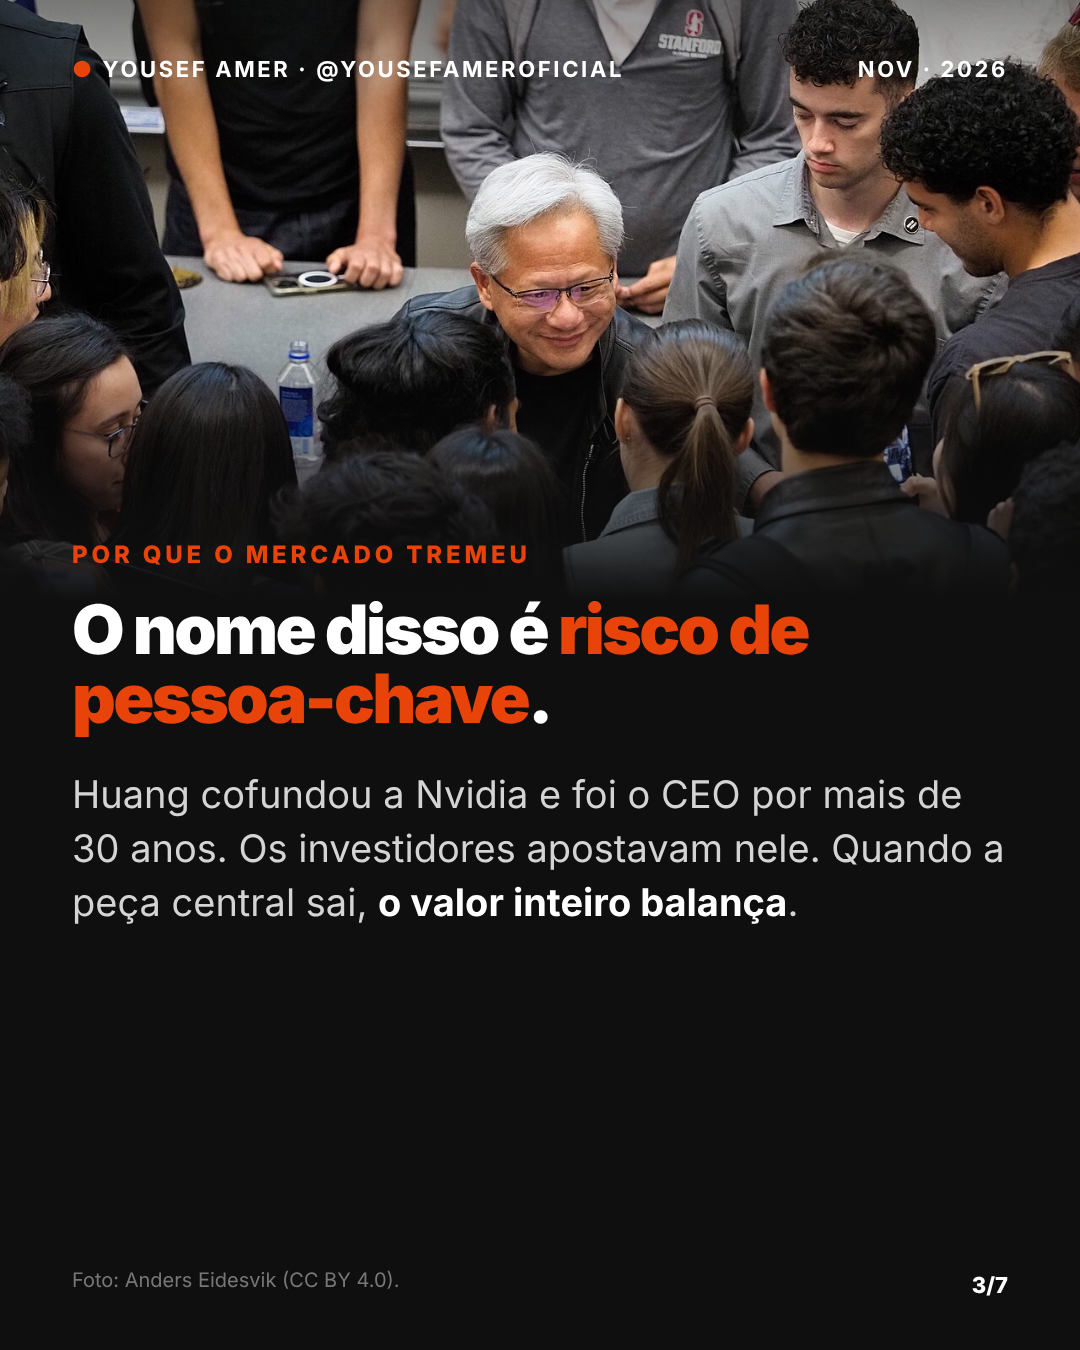
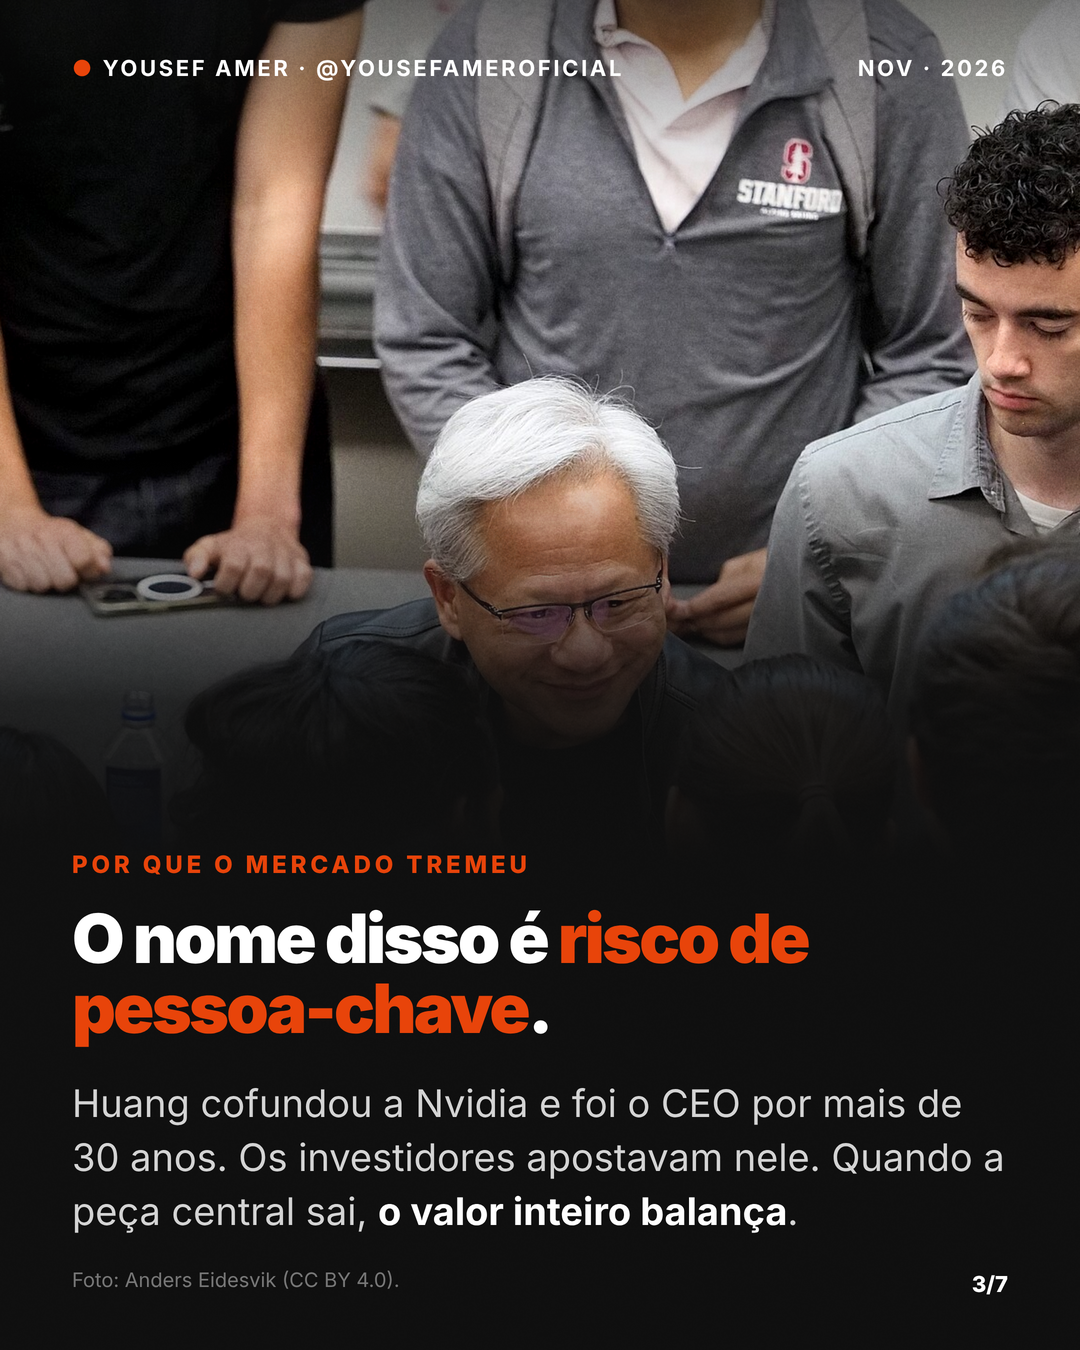
feat(marketing): carrossel da Nvidia no novo padrão (fotos em tela cheia e em alta)
Claude-Session: https://claude.ai/code/session_01PgX7nvM3iYSo6xDzmGNfnx

diff --git a/marketing/yousef/carrosseis/2026-11-nvidia-pessoa-chave/slides/01.html b/marketing/yousef/carrosseis/2026-11-nvidia-pessoa-chave/slides/01.html
@@ -2,8 +2,9 @@
 .dark .top{color:#fff}.dark .src{color:#777}.dark p{color:#D4D4D4}.dark p b{color:#fff}
 ul.l{list-style:none;margin-top:34px}ul.l li{font-size:36px;line-height:1.35;font-weight:600;padding:16px 0 16px 54px;position:relative;border-bottom:1px solid rgba(0,0,0,.08)}
 ul.l li:before{content:'→';position:absolute;left:0;color:#E8440A;font-weight:900}.dark ul.l li{border-color:rgba(255,255,255,.12);color:#fff}
+.grain{position:absolute;inset:0;background:url(grain.png);opacity:.07;mix-blend-mode:overlay;pointer-events:none}
 .big2{font-size:150px;font-weight:900;letter-spacing:-.05em;line-height:.95;color:#E8440A}
-</style></head><body class="dark"><div class="top" style="z-index:3"><span><b>●</b> YOUSEF AMER · @YOUSEFAMEROFICIAL</span><span>NOV · 2026</span></div><div class="bg" style="position:absolute;left:0;right:0;top:0;height:980px;background:url(huang-stanford-033.jpg) center 12%/cover;filter:brightness(1)"></div><div style="position:absolute;inset:0;background:linear-gradient(180deg,rgba(15,15,15,.5) 0%,rgba(15,15,15,0) 18%,rgba(15,15,15,0) 38%,rgba(15,15,15,.92) 56%,#0F0F0F 66%)"></div><div style="position:absolute;left:72px;top:640px;font-size:22px;font-weight:700;color:#fff;background:rgba(0,0,0,.55);padding:8px 14px;border-radius:10px;z-index:2">Jensen Huang · ex-CEO da Nvidia</div><div style="position:absolute;left:72px;right:72px;bottom:130px"><div class="kick" style="color:#FF6B3D">NVIDIA</div>
+</style></head><body class="dark"><div class="top" style="z-index:3"><span><b>●</b> YOUSEF AMER · @YOUSEFAMEROFICIAL</span><span>NOV · 2026</span></div><div class="bg" style="position:absolute;left:0;right:0;top:0;height:1350px;background:url(hq-huang-033.jpg) center 15%/cover;filter:contrast(1.06) saturate(.92) brightness(1)"></div><div class="grain"></div><div style="position:absolute;inset:0;background:linear-gradient(180deg,rgba(15,15,15,.5) 0%,rgba(15,15,15,0) 18%,rgba(15,15,15,0) 38%,rgba(15,15,15,.92) 56%,#0F0F0F 66%)"></div><div style="position:absolute;left:72px;top:560px;font-size:22px;font-weight:700;color:#fff;background:rgba(0,0,0,.55);padding:8px 14px;border-radius:10px;z-index:2">Jensen Huang · ex-CEO da Nvidia</div><div style="position:absolute;left:72px;right:72px;bottom:130px"><div class="kick" style="color:#FF6B3D">NVIDIA</div>
 <h1 style="color:#fff;font-size:76px">A saída de <span class="or">uma pessoa</span> apagou mais de US$ 1 trilhão em valor de mercado.</h1></div>
 <div style="position:absolute;bottom:60px;left:72px;font-size:26px;font-weight:800;letter-spacing:.12em;color:#E8440A">ARRASTE →</div>
 <div style="position:absolute;left:72px;bottom:24px;font-size:15px;color:#777">Foto: Anders Eidesvik (CC BY 4.0)</div></body></html>

diff --git a/marketing/yousef/carrosseis/2026-11-nvidia-pessoa-chave/slides/06.html b/marketing/yousef/carrosseis/2026-11-nvidia-pessoa-chave/slides/06.html
@@ -2,5 +2,6 @@
 .dark .top{color:#fff}.dark .src{color:#777}.dark p{color:#D4D4D4}.dark p b{color:#fff}
 ul.l{list-style:none;margin-top:34px}ul.l li{font-size:36px;line-height:1.35;font-weight:600;padding:16px 0 16px 54px;position:relative;border-bottom:1px solid rgba(0,0,0,.08)}
 ul.l li:before{content:'→';position:absolute;left:0;color:#E8440A;font-weight:900}.dark ul.l li{border-color:rgba(255,255,255,.12);color:#fff}
+.grain{position:absolute;inset:0;background:url(grain.png);opacity:.07;mix-blend-mode:overlay;pointer-events:none}
 .big2{font-size:150px;font-weight:900;letter-spacing:-.05em;line-height:.95;color:#E8440A}
-</style></head><body><div class="top" style="z-index:3"><span><b>●</b> YOUSEF AMER · @YOUSEFAMEROFICIAL</span><span>NOV · 2026</span></div><div class="wrap" style="top:150px"><div class="kick">O QUE EU FARIA</div><h2>Diversifique <span class="or">antes</span> de precisar.</h2><ul class="l"><li><b>Reserva de emergência:</b> de 3 a 6 meses do seu custo de vida</li><li><b>Cartão é ferramenta</b>, não plano B</li><li><b>Segunda fonte de renda</b>, mesmo que pequena</li><li><b>Dívidas renegociadas</b> enquanto a renda ainda entra</li></ul><div class="card" style="font-size:36px;font-weight:700;line-height:1.35">A Nvidia vai sobreviver. Uma família sem reserva, muitas vezes, não.</div></div><div class="pg">6/7</div></body></html>
+</style></head><body class="dark"><div class="top" style="z-index:3"><span><b>●</b> YOUSEF AMER · @YOUSEFAMEROFICIAL</span><span>NOV · 2026</span></div><div style="position:absolute;inset:0;background:url(hq-cofrinho.jpg) center 0%/cover;filter:contrast(1.06) saturate(.92) brightness(0.95)"></div><div style="position:absolute;inset:0;background:linear-gradient(180deg,rgba(15,15,15,.55) 0%,rgba(15,15,15,0) 14%,rgba(15,15,15,0) 12%,rgba(15,15,15,.88) 30%,#0F0F0F 42%)"></div><div class="grain"></div><div class="wrap" style="top:auto;bottom:110px"><div class="kick">O QUE EU FARIA</div><h2 style="color:#fff">Diversifique <span class="or">antes</span> de precisar.</h2><ul class="l"><li><b>Reserva de emergência:</b> de 3 a 6 meses do seu custo de vida</li><li><b>Cartão é ferramenta</b>, não plano B</li><li><b>Segunda fonte de renda</b>, mesmo que pequena</li><li><b>Dívidas renegociadas</b> enquanto a renda ainda entra</li></ul><div class="card" style="font-size:36px;font-weight:700;line-height:1.35;background:#1c1c1c;color:#fff">A Nvidia vai sobreviver. Uma família sem reserva, muitas vezes, não.</div></div><div class="src">Foto: Ken Teegardin (CC BY-SA 2.0).</div><div class="pg">6/7</div></body></html>

diff --git a/marketing/yousef/carrosseis/2026-11-nvidia-pessoa-chave/slides/03.html b/marketing/yousef/carrosseis/2026-11-nvidia-pessoa-chave/slides/03.html
@@ -2,5 +2,6 @@
 .dark .top{color:#fff}.dark .src{color:#777}.dark p{color:#D4D4D4}.dark p b{color:#fff}
 ul.l{list-style:none;margin-top:34px}ul.l li{font-size:36px;line-height:1.35;font-weight:600;padding:16px 0 16px 54px;position:relative;border-bottom:1px solid rgba(0,0,0,.08)}
 ul.l li:before{content:'→';position:absolute;left:0;color:#E8440A;font-weight:900}.dark ul.l li{border-color:rgba(255,255,255,.12);color:#fff}
+.grain{position:absolute;inset:0;background:url(grain.png);opacity:.07;mix-blend-mode:overlay;pointer-events:none}
 .big2{font-size:150px;font-weight:900;letter-spacing:-.05em;line-height:.95;color:#E8440A}
-</style></head><body class="dark"><div class="top" style="z-index:3"><span><b>●</b> YOUSEF AMER · @YOUSEFAMEROFICIAL</span><span>NOV · 2026</span></div><div style="position:absolute;left:0;right:0;top:0;height:600px;background:url(huang-stanford-025.jpg) center 35%/cover"></div><div style="position:absolute;left:0;right:0;top:0;height:600px;background:linear-gradient(180deg,rgba(15,15,15,.45),rgba(15,15,15,0) 25%,rgba(15,15,15,0) 55%,#0F0F0F)"></div><div class="wrap" style="top:540px"><div class="kick">POR QUE O MERCADO TREMEU</div><h2 style="color:#fff">O nome disso é <span class="or">risco de pessoa-chave</span>.</h2><p>Huang cofundou a Nvidia e foi o CEO por mais de 30 anos. Os investidores apostavam nele. Quando a peça central sai, <b>o valor inteiro balança</b>.</p></div><div class="src">Foto: Anders Eidesvik (CC BY 4.0).</div><div class="pg">3/7</div></body></html>
+</style></head><body class="dark"><div class="top" style="z-index:3"><span><b>●</b> YOUSEF AMER · @YOUSEFAMEROFICIAL</span><span>NOV · 2026</span></div><div style="position:absolute;inset:0;background:url(hq-huang-025.jpg) center 30%/cover;filter:contrast(1.06) saturate(.92) brightness(1)"></div><div style="position:absolute;inset:0;background:linear-gradient(180deg,rgba(15,15,15,.55) 0%,rgba(15,15,15,0) 14%,rgba(15,15,15,0) 34%,rgba(15,15,15,.88) 52%,#0F0F0F 64%)"></div><div class="grain"></div><div class="wrap" style="top:auto;bottom:110px"><div class="kick">POR QUE O MERCADO TREMEU</div><h2 style="color:#fff">O nome disso é <span class="or">risco de pessoa-chave</span>.</h2><p>Huang cofundou a Nvidia e foi o CEO por mais de 30 anos. Os investidores apostavam nele. Quando a peça central sai, <b>o valor inteiro balança</b>.</p></div><div class="src">Foto: Anders Eidesvik (CC BY 4.0).</div><div class="pg">3/7</div></body></html>

diff --git a/marketing/yousef/carrosseis/2026-11-nvidia-pessoa-chave/slides/02.html b/marketing/yousef/carrosseis/2026-11-nvidia-pessoa-chave/slides/02.html
@@ -2,5 +2,6 @@
 .dark .top{color:#fff}.dark .src{color:#777}.dark p{color:#D4D4D4}.dark p b{color:#fff}
 ul.l{list-style:none;margin-top:34px}ul.l li{font-size:36px;line-height:1.35;font-weight:600;padding:16px 0 16px 54px;position:relative;border-bottom:1px solid rgba(0,0,0,.08)}
 ul.l li:before{content:'→';position:absolute;left:0;color:#E8440A;font-weight:900}.dark ul.l li{border-color:rgba(255,255,255,.12);color:#fff}
+.grain{position:absolute;inset:0;background:url(grain.png);opacity:.07;mix-blend-mode:overlay;pointer-events:none}
 .big2{font-size:150px;font-weight:900;letter-spacing:-.05em;line-height:.95;color:#E8440A}
-</style></head><body><div class="top" style="z-index:3"><span><b>●</b> YOUSEF AMER · @YOUSEFAMEROFICIAL</span><span>NOV · 2026</span></div><div class="wrap" style="top:150px"><div class="kick">O QUE ACONTECEU</div><h2>Em 12/11, Jensen Huang deixou o comando da Nvidia com efeito imediato.</h2><p>A diretora financeira, Colette Kress, assumiu de forma interina. As ações caíram, puxaram o setor de chips, e o Nasdaq entrou em <b>correção</b>.</p><p>Um analista da Wedbush estimou que a empresa pode valer <b>até 30% menos</b> sem ele no comando.</p></div><div class="src">Fontes: InfoMoney, Exame, CNBC, Yahoo Finance (nov/2026).</div><div class="pg">2/7</div></body></html>
+</style></head><body class="dark"><div class="top" style="z-index:3"><span><b>●</b> YOUSEF AMER · @YOUSEFAMEROFICIAL</span><span>NOV · 2026</span></div><div style="position:absolute;inset:0;background:url(hq-nasdaq-tower.jpg) center 8%/cover;filter:contrast(1.06) saturate(.92) brightness(1)"></div><div style="position:absolute;inset:0;background:linear-gradient(180deg,rgba(15,15,15,.55) 0%,rgba(15,15,15,0) 14%,rgba(15,15,15,0) 26%,rgba(15,15,15,.88) 44%,#0F0F0F 56%)"></div><div class="grain"></div><div class="wrap" style="top:auto;bottom:110px"><div class="kick">O QUE ACONTECEU</div><h2 style="color:#fff">Em 12/11, Jensen Huang deixou o comando da Nvidia com efeito imediato.</h2><p>A diretora financeira, Colette Kress, assumiu de forma interina. As ações caíram, puxaram o setor de chips, e o Nasdaq entrou em <b>correção</b>.</p><p>Um analista da Wedbush estimou que a empresa pode valer <b>até 30% menos</b> sem ele no comando.</p></div><div class="src">Fontes: InfoMoney, Exame, CNBC, Yahoo Finance (nov/2026). Foto: Nielsoncaetanosalmeron (CC BY 4.0).</div><div class="pg">2/7</div></body></html>

diff --git a/marketing/yousef/carrosseis/2026-11-nvidia-pessoa-chave/slides/04.html b/marketing/yousef/carrosseis/2026-11-nvidia-pessoa-chave/slides/04.html
@@ -2,5 +2,6 @@
 .dark .top{color:#fff}.dark .src{color:#777}.dark p{color:#D4D4D4}.dark p b{color:#fff}
 ul.l{list-style:none;margin-top:34px}ul.l li{font-size:36px;line-height:1.35;font-weight:600;padding:16px 0 16px 54px;position:relative;border-bottom:1px solid rgba(0,0,0,.08)}
 ul.l li:before{content:'→';position:absolute;left:0;color:#E8440A;font-weight:900}.dark ul.l li{border-color:rgba(255,255,255,.12);color:#fff}
+.grain{position:absolute;inset:0;background:url(grain.png);opacity:.07;mix-blend-mode:overlay;pointer-events:none}
 .big2{font-size:150px;font-weight:900;letter-spacing:-.05em;line-height:.95;color:#E8440A}
-</style></head><body><div class="top" style="z-index:3"><span><b>●</b> YOUSEF AMER · @YOUSEFAMEROFICIAL</span><span>NOV · 2026</span></div><div class="wrap" style="top:150px"><div class="kick">AGORA, A SUA CASA</div><h2>Na maioria das famílias, <span class="or">o seu salário</span> é o Jensen Huang.</h2><p>Uma fonte de renda sustenta tudo. E o plano B, quase sempre, é o <b>limite do cartão</b>.</p><p>Se essa fonte para (demissão, doença, atraso de pagamento), a dívida começa no mês seguinte.</p></div><div class="pg">4/7</div></body></html>
+</style></head><body class="dark"><div class="top" style="z-index:3"><span><b>●</b> YOUSEF AMER · @YOUSEFAMEROFICIAL</span><span>NOV · 2026</span></div><div style="position:absolute;inset:0;background:url(hq-pagando-cartao.jpg) 70% center/cover;filter:contrast(1.06) saturate(.92) brightness(1)"></div><div style="position:absolute;inset:0;background:linear-gradient(180deg,rgba(15,15,15,.55) 0%,rgba(15,15,15,0) 14%,rgba(15,15,15,0) 30%,rgba(15,15,15,.88) 48%,#0F0F0F 60%)"></div><div class="grain"></div><div class="wrap" style="top:auto;bottom:110px"><div class="kick">AGORA, A SUA CASA</div><h2 style="color:#fff">Na maioria das famílias, <span class="or">o seu salário</span> é o Jensen Huang.</h2><p>Uma fonte de renda sustenta tudo. E o plano B, quase sempre, é o <b>limite do cartão</b>.</p><p>Se essa fonte para (demissão, doença, atraso de pagamento), a dívida começa no mês seguinte.</p></div><div class="src">Foto: Hloom Templates (CC BY 2.0).</div><div class="pg">4/7</div></body></html>

diff --git a/marketing/yousef/carrosseis/2026-11-nvidia-pessoa-chave/slides/05.html b/marketing/yousef/carrosseis/2026-11-nvidia-pessoa-chave/slides/05.html
@@ -2,5 +2,6 @@
 .dark .top{color:#fff}.dark .src{color:#777}.dark p{color:#D4D4D4}.dark p b{color:#fff}
 ul.l{list-style:none;margin-top:34px}ul.l li{font-size:36px;line-height:1.35;font-weight:600;padding:16px 0 16px 54px;position:relative;border-bottom:1px solid rgba(0,0,0,.08)}
 ul.l li:before{content:'→';position:absolute;left:0;color:#E8440A;font-weight:900}.dark ul.l li{border-color:rgba(255,255,255,.12);color:#fff}
+.grain{position:absolute;inset:0;background:url(grain.png);opacity:.07;mix-blend-mode:overlay;pointer-events:none}
 .big2{font-size:150px;font-weight:900;letter-spacing:-.05em;line-height:.95;color:#E8440A}
-</style></head><body><div class="top" style="z-index:3"><span><b>●</b> YOUSEF AMER · @YOUSEFAMEROFICIAL</span><span>NOV · 2026</span></div><div class="wrap" style="top:150px"><div class="kick">SINAIS DE ALERTA</div><h2>Sua vida financeira tem risco de pessoa-chave se:</h2><ul class="l"><li>100% da renda vem de uma fonte só</li><li>você não aguenta 3 meses sem salário</li><li>o limite do cartão é a sua reserva</li><li>um imprevisto de R$ 2 mil já vira parcela</li></ul></div><div class="pg">5/7</div></body></html>
+</style></head><body class="dark"><div class="top" style="z-index:3"><span><b>●</b> YOUSEF AMER · @YOUSEFAMEROFICIAL</span><span>NOV · 2026</span></div><div style="position:absolute;inset:0;background:url(hq-cartoes.jpg) center 0%/cover;filter:contrast(1.06) saturate(.92) brightness(1)"></div><div style="position:absolute;inset:0;background:linear-gradient(180deg,rgba(15,15,15,.55) 0%,rgba(15,15,15,0) 14%,rgba(15,15,15,0) 22%,rgba(15,15,15,.88) 40%,#0F0F0F 52%)"></div><div class="grain"></div><div class="wrap" style="top:auto;bottom:110px"><div class="kick">SINAIS DE ALERTA</div><h2 style="color:#fff">Sua vida financeira tem risco de pessoa-chave se:</h2><ul class="l"><li>100% da renda vem de uma fonte só</li><li>você não aguenta 3 meses sem salário</li><li>o limite do cartão é a sua reserva</li><li>um imprevisto de R$ 2 mil já vira parcela</li></ul></div><div class="src">Foto: $5000 (CC BY-SA 4.0).</div><div class="pg">5/7</div></body></html>

diff --git a/marketing/yousef/carrosseis/2026-11-nvidia-pessoa-chave/slides/07.html b/marketing/yousef/carrosseis/2026-11-nvidia-pessoa-chave/slides/07.html
@@ -2,6 +2,7 @@
 .dark .top{color:#fff}.dark .src{color:#777}.dark p{color:#D4D4D4}.dark p b{color:#fff}
 ul.l{list-style:none;margin-top:34px}ul.l li{font-size:36px;line-height:1.35;font-weight:600;padding:16px 0 16px 54px;position:relative;border-bottom:1px solid rgba(0,0,0,.08)}
 ul.l li:before{content:'→';position:absolute;left:0;color:#E8440A;font-weight:900}.dark ul.l li{border-color:rgba(255,255,255,.12);color:#fff}
+.grain{position:absolute;inset:0;background:url(grain.png);opacity:.07;mix-blend-mode:overlay;pointer-events:none}
 .big2{font-size:150px;font-weight:900;letter-spacing:-.05em;line-height:.95;color:#E8440A}
 </style></head><body class="dark"><div class="top" style="z-index:3"><span><b>●</b> YOUSEF AMER · @YOUSEFAMEROFICIAL</span><span>NOV · 2026</span></div><div class="wrap" style="top:50%;transform:translateY(-55%)"><div class="kick">VOCÊ NÃO PRECISA SER A NVIDIA</div>
 <h1 style="color:#fff;font-size:76px">Monte o seu plano B antes do imprevisto.</h1>

diff --git a/marketing/gerador/gerar_carrossel.py b/marketing/gerador/gerar_carrossel.py
@@ -35,6 +35,7 @@ def page(spec, n, total, body, dark=False, extra_css=''):
 .dark .top{{color:#fff}}.dark .src{{color:#777}}.dark p{{color:#D4D4D4}}.dark p b{{color:#fff}}
 ul.l{{list-style:none;margin-top:34px}}ul.l li{{font-size:36px;line-height:1.35;font-weight:600;padding:16px 0 16px 54px;position:relative;border-bottom:1px solid rgba(0,0,0,.08)}}
 ul.l li:before{{content:'→';position:absolute;left:0;color:#E8440A;font-weight:900}}.dark ul.l li{{border-color:rgba(255,255,255,.12);color:#fff}}
+.grain{{position:absolute;inset:0;background:url(grain.png);opacity:.07;mix-blend-mode:overlay;pointer-events:none}}
 .big2{{font-size:150px;font-weight:900;letter-spacing:-.05em;line-height:.95;color:#E8440A}}
 </style></head><body{cls}>{top(spec)}{body}<div class="pg">{n}/{total}</div></body></html>'''
 
@@ -45,7 +46,7 @@ def slide_html(spec, s, n, total):
     if k == 'capa':
         foto = s.get('foto')
         pos = s.get('pos', 'center 20%')
-        bg = f'<div class="bg" style="position:absolute;left:0;right:0;top:0;height:{s.get("h", 900)}px;background:url({foto}) {pos}/cover;filter:brightness({s.get("brilho", 1)})"></div><div style="position:absolute;inset:0;background:linear-gradient(180deg,rgba(15,15,15,.5) 0%,rgba(15,15,15,0) 18%,rgba(15,15,15,0) 38%,rgba(15,15,15,.92) 56%,#0F0F0F 66%)"></div>' if foto else '<img src="' + LOGO_LIGHT.replace('logo-tb-light', 'seta') + '" style="position:absolute;right:-60px;top:330px;width:560px;opacity:.10">'
+        bg = f'<div class="bg" style="position:absolute;left:0;right:0;top:0;height:{s.get("h", 900)}px;background:url({foto}) {pos}/cover;filter:contrast(1.06) saturate(.92) brightness({s.get("brilho", 1)})"></div><div class="grain"></div><div style="position:absolute;inset:0;background:linear-gradient(180deg,rgba(15,15,15,.5) 0%,rgba(15,15,15,0) 18%,rgba(15,15,15,0) 38%,rgba(15,15,15,.92) 56%,#0F0F0F 66%)"></div>' if foto else '<img src="' + LOGO_LIGHT.replace('logo-tb-light', 'seta') + '" style="position:absolute;right:-60px;top:330px;width:560px;opacity:.10">'
         who = f'<div style="position:absolute;left:72px;top:{s.get("who_top", 560)}px;font-size:22px;font-weight:700;color:#fff;background:rgba(0,0,0,.55);padding:8px 14px;border-radius:10px;z-index:2">{esc(s["quem"])}</div>' if s.get('quem') else ''
         body = f'''{bg}{who}<div style="position:absolute;left:72px;right:72px;bottom:130px"><div class="kick" style="color:#FF6B3D">{esc(s["kicker"])}</div>
 <h1 style="color:#fff;font-size:{s.get("fs", 80)}px">{esc(s["titulo"])}</h1></div>
@@ -56,7 +57,13 @@ def slide_html(spec, s, n, total):
         dark = s.get('escuro', False)
         foto = ''
         wrap_top = 150
-        if s.get('foto'):
+        if s.get('foto') and s.get('cheia', spec.get('cheia')):
+            # Foto em tela cheia (padrão G4): degradê escuro só na metade de baixo, texto ancorado embaixo.
+            foto = (f'<div style="position:absolute;inset:0;background:url({s["foto"]}) {s.get("pos", "center 30%")}/cover;filter:contrast(1.06) saturate(.92) brightness({s.get("brilho", 1)})"></div>'
+                    f'<div style="position:absolute;inset:0;background:linear-gradient(180deg,rgba(15,15,15,.55) 0%,rgba(15,15,15,0) 14%,rgba(15,15,15,0) {s.get("fade", 30)}%,rgba(15,15,15,.88) {s.get("fade", 30) + 18}%,#0F0F0F {s.get("fade", 30) + 30}%)"></div>'
+                    '<div class="grain"></div>')
+            dark = True
+        elif s.get('foto'):
             foto = f'<div style="position:absolute;left:0;right:0;top:0;height:{s.get("h", 600)}px;background:url({s["foto"]}) {s.get("pos", "center 30%")}/cover"></div><div style="position:absolute;left:0;right:0;top:0;height:{s.get("h", 600)}px;background:linear-gradient(180deg,rgba(15,15,15,.45),rgba(15,15,15,0) 25%,rgba(15,15,15,0) 55%,#0F0F0F)"></div>'
             wrap_top = s.get('h', 600) - 60
             dark = True
@@ -66,6 +73,8 @@ def slide_html(spec, s, n, total):
         card = f'<div class="card" style="font-size:36px;font-weight:700;line-height:1.35{";background:#1c1c1c;color:#fff" if dark else ""}">{esc(s["destaque"])}</div>' if s.get('destaque') else ''
         h2c = ' style="color:#fff"' if dark else ''
         pos = f'top:{wrap_top}px' if (s.get('foto') or not dark) else 'top:50%;transform:translateY(-50%)'
+        if s.get('foto') and s.get('cheia', spec.get('cheia')):
+            pos = 'top:auto;bottom:110px'
         body = f'{foto}<div class="wrap" style="{pos}"><div class="kick">{esc(s["kicker"])}</div><h2{h2c}>{esc(s["titulo"])}</h2>{big}{ps}{lst}{card}</div>{src}'
         return page(spec, n, total, body, dark=dark)
     if k == 'cta':
@@ -87,6 +96,12 @@ def main():
     out = sys.argv[2]
     os.makedirs(out, exist_ok=True)
     shutil.copy(CSS, os.path.join(out, 'ed.css'))
+    grain = os.path.join(os.path.dirname(__file__), 'grain.png')
+    if not os.path.exists(grain):
+        import random
+        from PIL import Image
+        g = Image.new('L', (540, 675)); g.putdata([random.randint(0, 255) for _ in range(540 * 675)]); g.save(grain)
+    shutil.copy(grain, out)
     for f in spec.get('copiar', []):
         shutil.copy(os.path.join(os.path.dirname(sys.argv[1]), f) if not os.path.isabs(f) else f, out)
     total = len(spec['slides'])

diff --git a/marketing/fotos-noticias/CREDITOS.md b/marketing/fotos-noticias/CREDITOS.md
@@ -4,3 +4,9 @@
 |---|---|---|---|---|
 | huang-stanford-033.jpg | Jensen Huang (Stanford, 09/04/2026) | Anders Eidesvik | CC BY 4.0 | File:Jensen huang stanford 2026-04-09 033.jpg |
 | huang-stanford-025.jpg | Jensen Huang (Stanford, 30/04/2026) | Anders Eidesvik | CC BY 4.0 | File:Jensen huang stanford 2026-04-30 025.jpg |
+| hq-huang-033.jpg | Jensen Huang (1920 px) | Anders Eidesvik | CC BY 4.0 | File:Jensen huang stanford 2026-04-09 033.jpg |
+| hq-huang-025.jpg | Jensen Huang (1920 px) | Anders Eidesvik | CC BY 4.0 | File:Jensen huang stanford 2026-04-30 025.jpg |
+| hq-nasdaq-tower.jpg | Nasdaq Tower, Times Square | Nielsoncaetanosalmeron | CC BY 4.0 | File:Nasdaq Tower May 2026.jpg |
+| hq-pagando-cartao.jpg | Pagamento com cartão | Hloom Templates | CC BY 2.0 | File:Paying with a Credit Card (28886645201).jpg |
+| hq-cartoes.jpg | Cartões de crédito | $5000 | CC BY-SA 4.0 | File:Credit card logos (2015-12-1816-27-350044).jpg |
+| hq-cofrinho.jpg | Cofrinho | Ken Teegardin | CC BY-SA 2.0 | File:Hand Putting Deposit Into Piggy Bank (5737295175).jpg |
